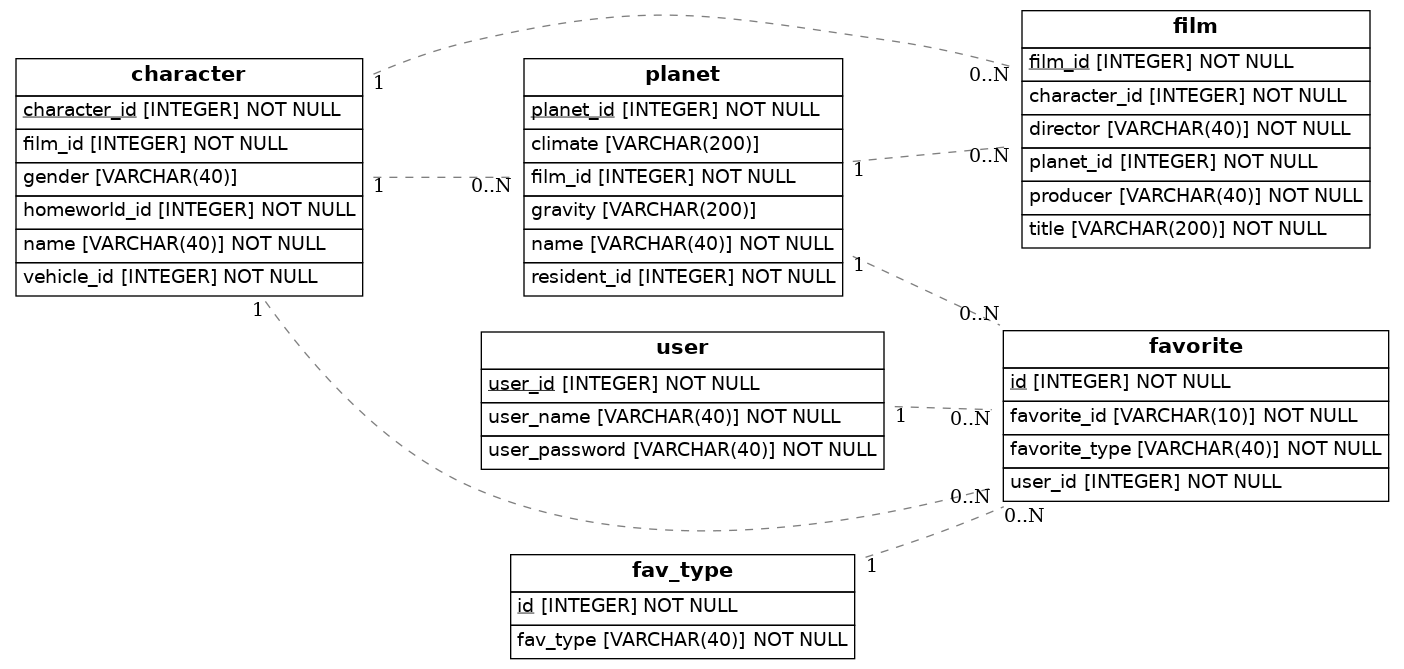
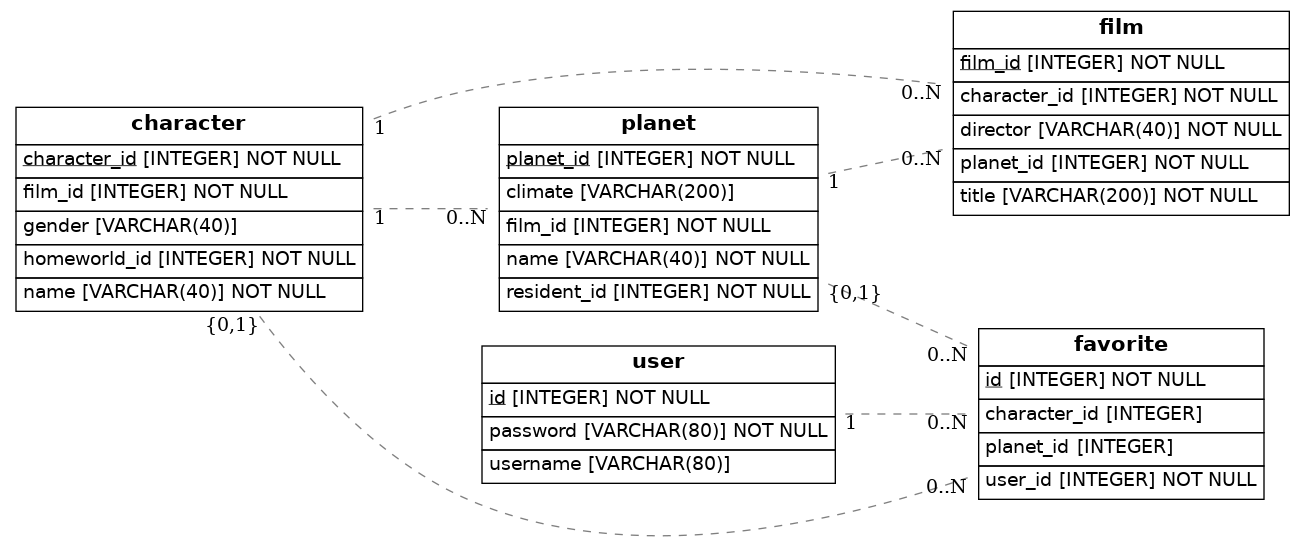
models fixed

diff --git a/src/models.py b/src/models.py
@@ -14,39 +14,85 @@ class Character(Base):
     name = Column(String(40), unique=True, nullable=False)
     film_id = Column(Integer, nullable=False)
     homeworld_id = Column(Integer, nullable=False)
-    vehicle_id = Column(Integer, nullable=False)
+
+    def __repr__(self):
+        return '<Character %r>' % self.name
+
+    def serialize(self):
+        return {
+            "character_id": self.character_id,
+            "name": self.name,
+            "gender": self.gender,
+            "film_id" : self.film_id,
+            "homeworld_id": self.homeworld_id,
+        }
 
 class Planet(Base):
     __tablename__ = "planet"
     planet_id = Column(Integer, primary_key=True)
     climate = Column(String(200))
-    gravity = Column(String(200))
     name = Column(String(40), nullable=False)
     resident_id = Column(Integer,ForeignKey('character.character_id') ,nullable=False)
     character= relationship(Character)
-    film_id = Column(Integer,nullable=False)
+    film_id = Column(Integer,nullable=False) 
+
+    def __repr__(self):
+        return '<Planet %r>' % self.name
+
+    def serialize(self):
+        return {
+            "planet_id": self.planet_id,
+            "name": self.name,
+            "climate": self.climate,
+            "film_id" : self.film_id,
+            "resident_id": self.resident_id,
+        }
 
 class User(Base):
     __tablename__ = "user"
-    user_id = Column(Integer, primary_key=True)
-    user_name = Column (String(40), unique=True, nullable=False)
-    user_password = Column (String(40), nullable=False)
-
-class Fav_type(Base):
-    __tablename__="fav_type"  
     id = Column(Integer, primary_key=True)
-    fav_type = Column(String(40), unique=True, nullable=False)
+    username = Column(String(80), nullable=True)
+    password = Column(String(80), unique=False, nullable=False)
+
+    def __repr__(self):
+        return '<User %r>' % self.username
+
+    def serialize(self):
+        return {
+            "id": self.id,
+            "username": self.username
+            # do not serialize the password, its a security breach
+        }
 
 class Favorites(Base):
-    __tablename__= "favorite"
-    id = Column(Integer, primary_key=True)
-    user_id = Column(Integer, ForeignKey('user.user_id') ,nullable=False)
-    user= relationship(User)
-    favorite_id = Column(String(10), ForeignKey('character.character_id'), ForeignKey('planet.planet_id'), nullable=False)
-    character = relationship(Character)
-    planet = relationship(Planet)
-    favorite_type = Column (String(40), ForeignKey('fav_type.fav_type') ,nullable=False)
-    fav_type = relationship(Fav_type)
+   __tablename__ = "favorite"
+   id = Column(Integer, primary_key=True)
+   user_id = Column(Integer, ForeignKey('user.id'), nullable=False)
+   user = relationship(User)
+   character_id = Column(Integer,ForeignKey('character.character_id'), nullable=True)
+   character = relationship(Character)
+   planet_id = Column(Integer, ForeignKey('planet.planet_id'), nullable=True)
+   planet = relationship(Planet)
+
+   def __repr__(self):
+        return '<Favorite %r>' % self.id
+
+   def serialize(self):
+        if self.character_id is not None:
+            fav_type = "character"
+            fav_id = self.character_id
+        elif self.planet_id is not None:
+            fav_type = "planet"
+            fav_id = self.planet_id
+        else:
+            fav_type = "unknown"
+            fav_id = None    
+        return {
+            "id": self.id,
+            "user_id": self.user_id,
+            "fav_type": fav_type,
+            "fav_id": fav_id,
+        }
 
 class Film(Base):
     __tablename__ = "film"
@@ -56,8 +102,19 @@ class Film(Base):
     planet_id = Column(Integer, ForeignKey('planet.planet_id') ,nullable=False)
     planet = relationship(Planet)
     director = Column(String(40), nullable=False)
-    producer = Column(String(40), nullable=False)
     title = Column(String(200), nullable=False)
+
+    def __repr__(self):
+        return '<Film %r>' % self.title
+
+    def serialize(self):
+        return {
+            "film_id": self.film_id,
+            "title": self.title,
+            "director" : self.director,
+            "character_id": self.character_id,
+            "planet_id": self.planet_id,
+        }
 
 
 ## Draw from SQLAlchemy base
